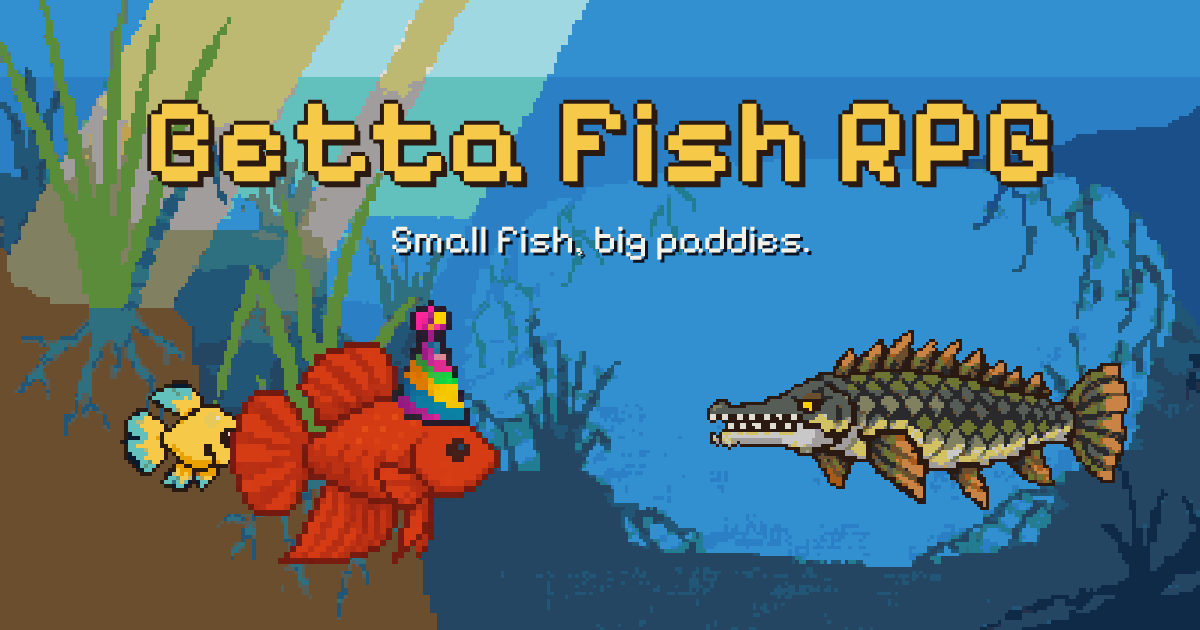
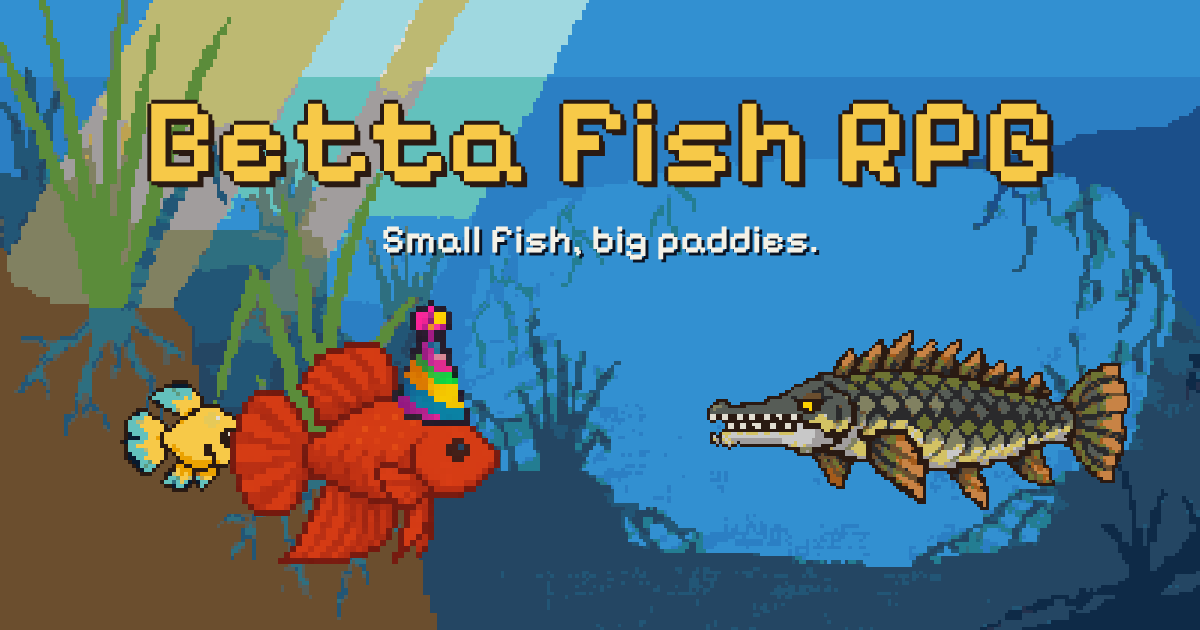
Social card redrawn with the clearer B

Changed region(s): [[0.3083, 0.3619, 0.6783, 0.4222], [0.1233, 0.2714, 0.1542, 0.3016], [0.1233, 0.1508, 0.1542, 0.181]]

diff --git a/design/social-card.html b/design/social-card.html
@@ -1,6 +1,6 @@
 <!DOCTYPE html>
 <html><head><meta charset="utf-8"><style>
-@font-face { font-family: 'Pixelify Sans'; src: url('../game/fonts/PixelifySans.ttf'); }
+@font-face { font-family: 'Pixelify Sans'; src: url('../game/fonts/BettaPixel-600.ttf'); }
 html, body { font-variant-ligatures: none; font-feature-settings: 'liga' 0; margin: 0; width: 1200px; height: 630px; overflow: hidden; background: #123a66; }
 .bg { position: absolute; left: -48px; top: -40px; width: 1296px; height: 600px; image-rendering: pixelated; background: url('../game/assets/native/backdrops/title.png') center/cover; height: 710px; }
 .fish { position: absolute; left: 230px; top: 300px; width: 270px; image-rendering: pixelated; }
